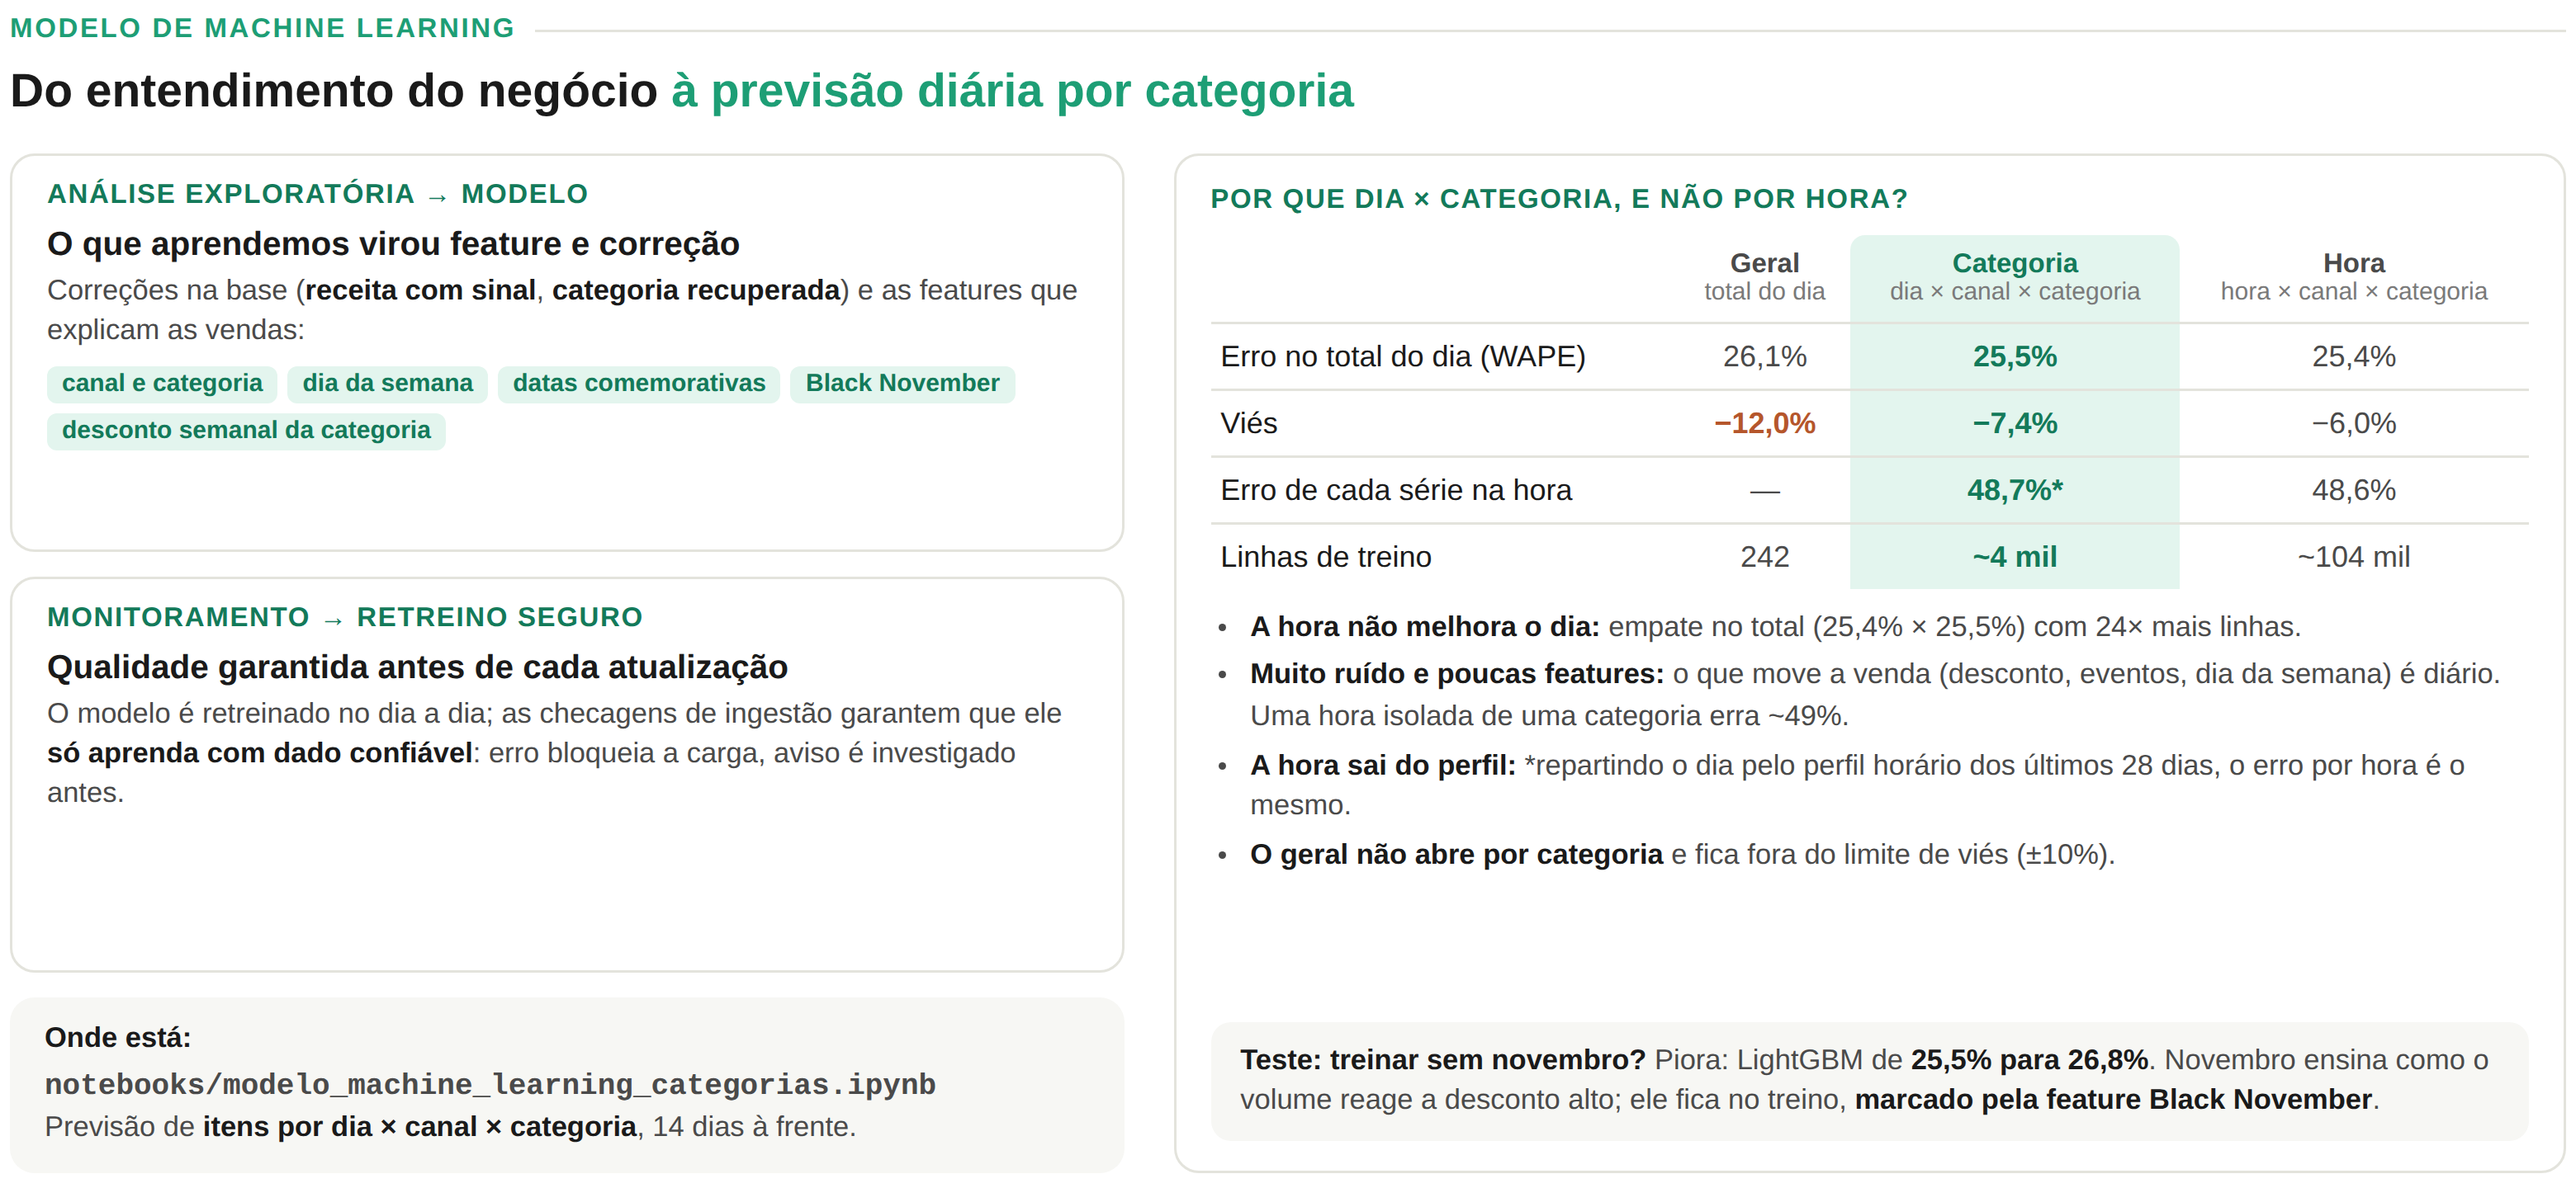
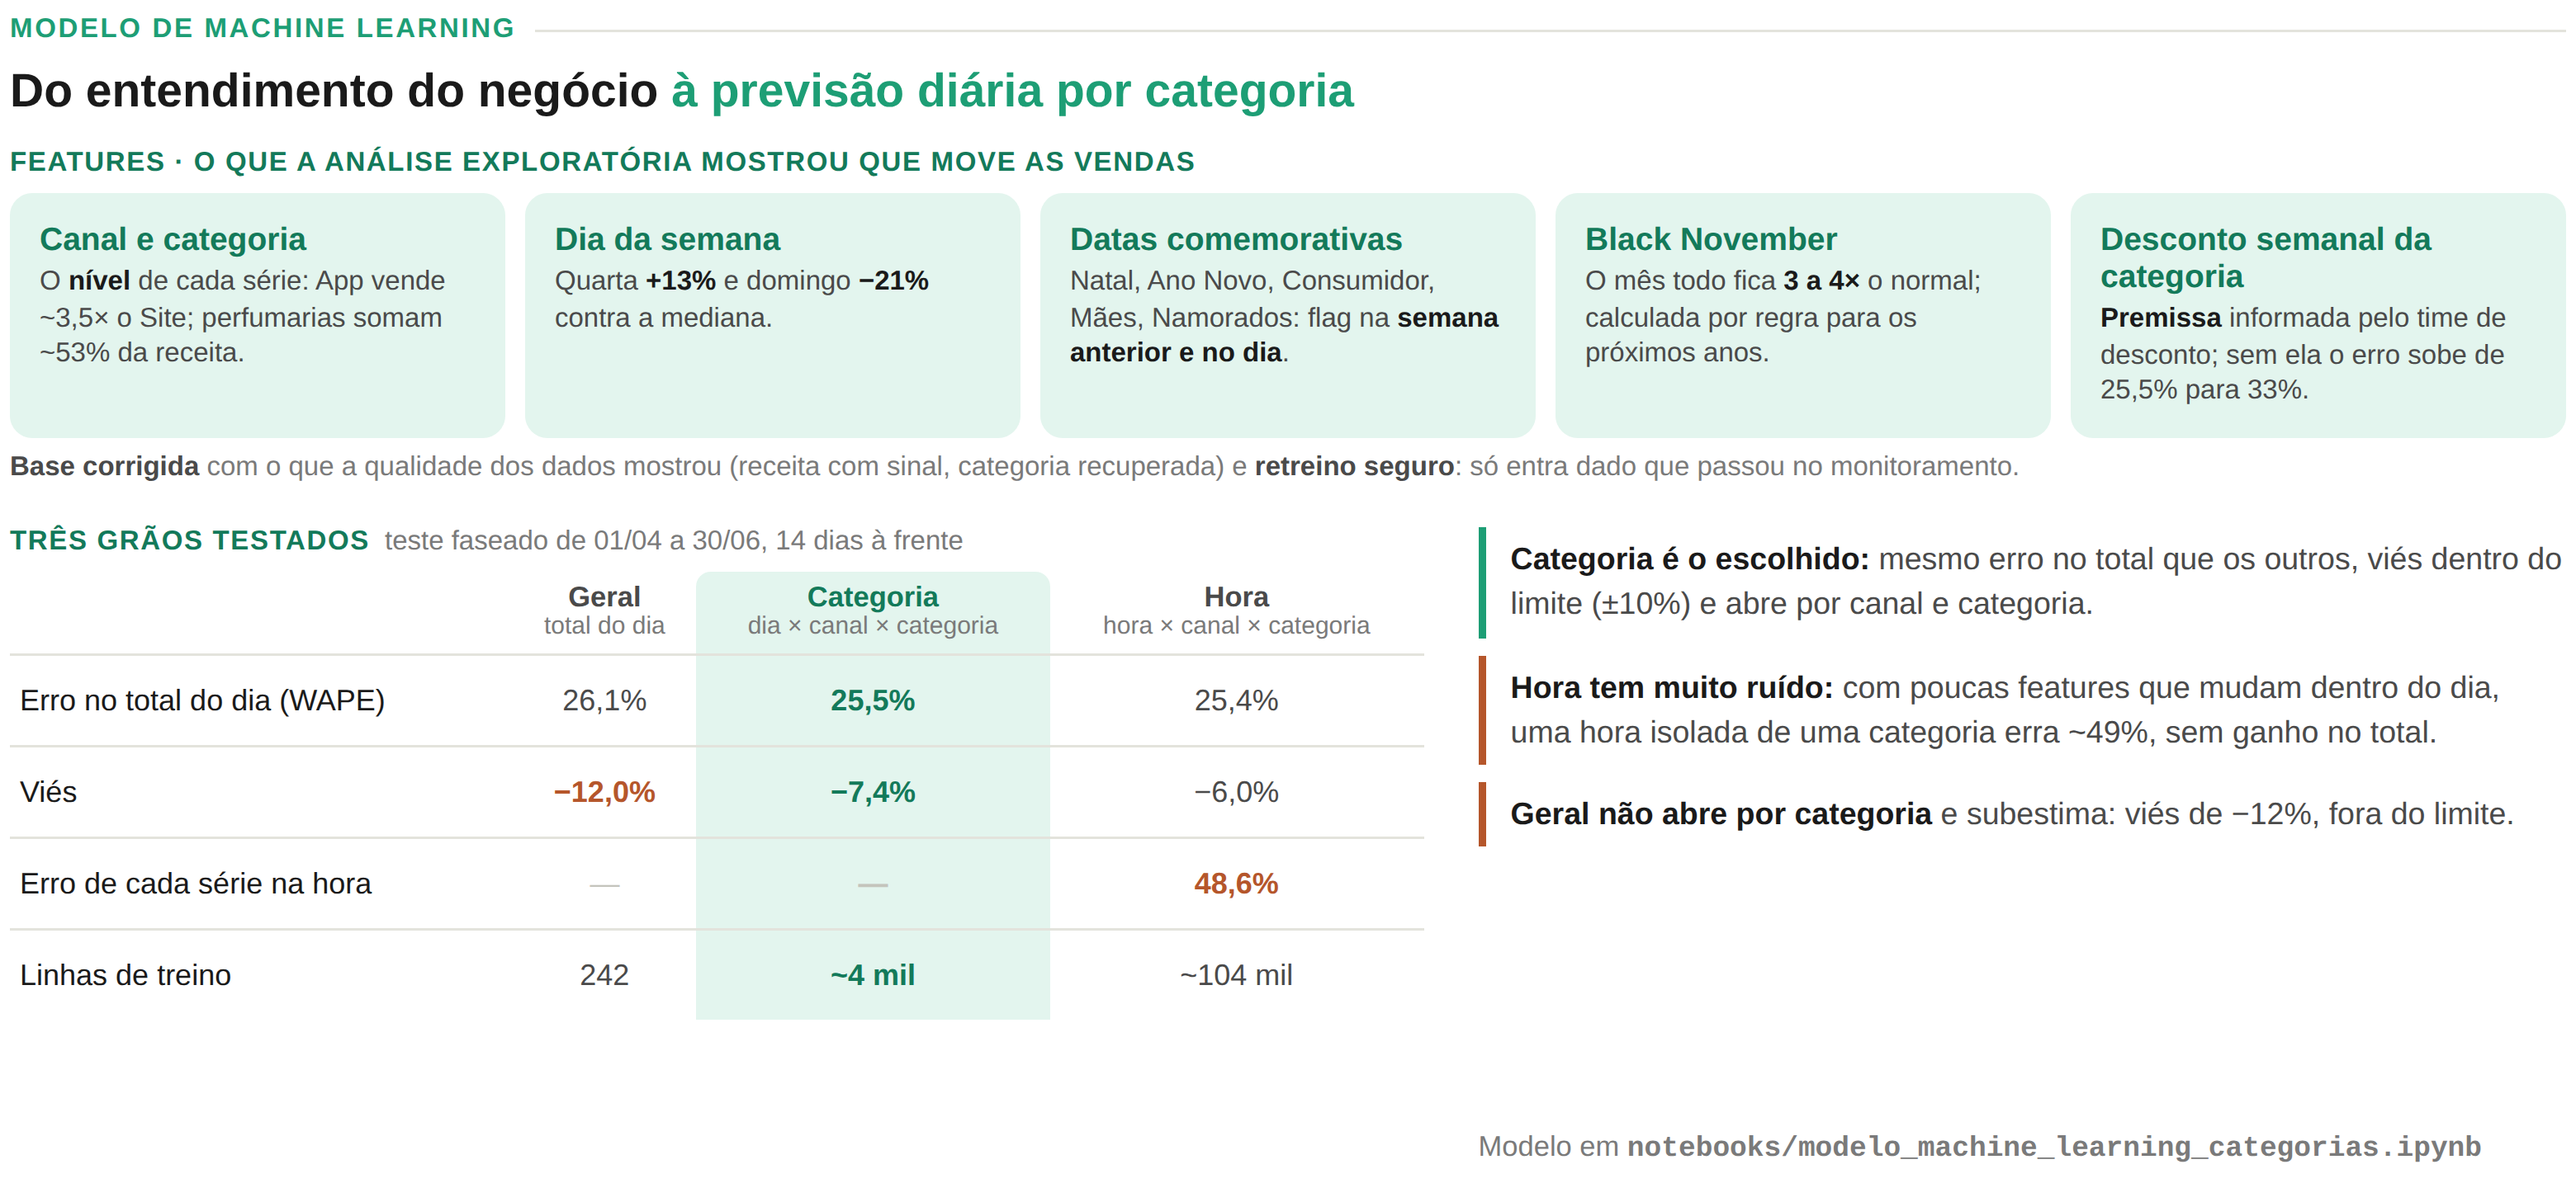
Widget do modelo: faixa de features e comparação dos três grãos
Claude-Session: https://claude.ai/code/session_01NUJZKTcM8cs9QBTcUeuacF

diff --git a/apresentacao/widgets/12_modelo_intro.html b/apresentacao/widgets/12_modelo_intro.html
@@ -12,74 +12,68 @@
   .rotulo { font-size: 11px; font-weight: 700; letter-spacing: .08em; text-transform: uppercase; color: var(--verde);
             margin-bottom: 8px; display: flex; align-items: center; gap: 8px; }
   .rotulo::after { content: ""; flex: 1; height: 1px; background: var(--linha); }
-  h3 { font-size: 19px; line-height: 1.25; margin-bottom: 12px; }
+  h3 { font-size: 19px; line-height: 1.25; margin-bottom: 10px; }
   h3 span { color: var(--verde); }
-  .colunas { display: grid; grid-template-columns: 1fr 1.25fr; gap: 20px; flex: 1; }
   .tit { font-size: 11px; font-weight: 700; color: var(--verde-escuro); text-transform: uppercase; letter-spacing: .05em; margin-bottom: 6px; }
-  code { font-family: "Courier New", monospace; font-weight: 700; font-size: 12px; }
+  .tit small { font-weight: 400; text-transform: none; letter-spacing: 0; color: var(--tinta-3); font-size: 11px; margin-left: 6px; }
+  code { font-family: "Courier New", monospace; font-weight: 700; font-size: 11.5px; }
 
-  .pilares { display: flex; flex-direction: column; gap: 10px; }
-  .pilar { flex: 1; }
-  .pilar { border: 1px solid var(--linha); border-radius: 10px; padding: 10px 14px; }
-  .pilar h4 { font-size: 13.5px; margin-bottom: 4px; }
-  .pilar p { font-size: 11.5px; color: var(--tinta-2); line-height: 1.4; }
-  .pilar p b { color: var(--tinta); }
-  .tags { display: flex; flex-wrap: wrap; gap: 4px; margin-top: 6px; }
-  .tag { font-size: 10px; font-weight: 700; color: var(--verde-escuro); background: var(--verde-claro); border-radius: 4px; padding: 2px 6px; }
-  .arquivo { background: #f7f7f4; border-radius: 10px; padding: 9px 14px; font-size: 11.5px; color: var(--tinta-2); line-height: 1.5; }
-  .arquivo b { color: var(--tinta); }
+  .feats { display: grid; grid-template-columns: repeat(5, 1fr); gap: 8px; }
+  .f { background: var(--verde-claro); border-radius: 9px; padding: 11px 12px; }
+  .f h4 { font-size: 13px; color: var(--verde-escuro); margin-bottom: 3px; }
+  .f p { font-size: 11px; color: var(--tinta-2); line-height: 1.35; }
+  .f p b { color: var(--tinta); }
+  .base { margin-top: 6px; font-size: 11px; color: var(--tinta-3); }
+  .base b { color: var(--tinta-2); }
 
-  .grao { border: 1px solid var(--linha); border-radius: 10px; padding: 12px 14px; display: flex; flex-direction: column; }
-  .comp { width: 100%; border-collapse: collapse; font-size: 12px; margin: 2px 0 8px; }
-  .comp th { font-size: 11px; color: var(--tinta-2); text-align: center; padding: 6px 4px; font-weight: 700; }
+  .baixo { display: grid; grid-template-columns: 1.3fr 1fr; gap: 22px; margin-top: 18px; flex: 1; }
+  .comp { width: 100%; border-collapse: collapse; font-size: 12px; }
+  .comp th { font-size: 11.5px; color: var(--tinta-2); text-align: center; padding: 5px 4px; font-weight: 700; }
   .comp th small { display: block; font-weight: 400; color: var(--tinta-3); font-size: 10px; }
   .comp th.esc { background: var(--verde-claro); color: var(--verde-escuro); border-radius: 6px 6px 0 0; }
-  .comp td { padding: 6px 4px; border-top: 1px solid var(--linha); text-align: center; color: var(--tinta-2); }
+  .comp td { padding: 11px 4px; border-top: 1px solid var(--linha); text-align: center; color: var(--tinta-2); }
   .comp td:first-child { text-align: left; color: var(--tinta); }
   .comp td.esc { background: var(--verde-claro); color: var(--verde-escuro); font-weight: 700; }
   .comp td.ruim { color: var(--laranja); font-weight: 700; }
-  .porque { font-size: 11.5px; color: var(--tinta-2); line-height: 1.45; }
+  .comp td.na { color: #c4c4bc; }
+  .porque { font-size: 12.5px; color: var(--tinta-2); line-height: 1.45; display: flex; flex-direction: column; gap: 7px; }
+  .porque div { border-left: 3px solid var(--verde); padding: 4px 0 4px 10px; }
+  .porque div.r { border-color: var(--laranja); }
   .porque b { color: var(--tinta); }
-  .porque li { margin: 0 0 3px 16px; }
-  .teste { margin-top: auto; background: #f7f7f4; border-radius: 8px; padding: 8px 12px; font-size: 11.5px; color: var(--tinta-2); line-height: 1.4; }
-  .teste b { color: var(--tinta); }
+  .arquivo { margin-top: auto; font-size: 11.5px; color: var(--tinta-3); }
 </style>
 </head>
 <body>
 <div class="widget">
   <div class="rotulo">Modelo de machine learning</div>
   <h3>Do entendimento do negócio <span>à previsão diária por categoria</span></h3>
-  <div class="colunas">
-    <div class="pilares">
-      <div class="pilar">
-        <div class="tit">Análise exploratória → modelo</div>
-        <h4>O que aprendemos virou feature e correção</h4>
-        <p>Correções na base (<b>receita com sinal</b>, <b>categoria recuperada</b>) e as features que explicam as vendas:</p>
-        <div class="tags"><span class="tag">canal e categoria</span><span class="tag">dia da semana</span><span class="tag">datas comemorativas</span><span class="tag">Black November</span><span class="tag">desconto semanal da categoria</span></div>
-      </div>
-      <div class="pilar">
-        <div class="tit">Monitoramento → retreino seguro</div>
-        <h4>Qualidade garantida antes de cada atualização</h4>
-        <p>O modelo é retreinado no dia a dia; as checagens de ingestão garantem que ele <b>só aprenda com dado confiável</b>: erro bloqueia a carga, aviso é investigado antes.</p>
-      </div>
-      <div class="arquivo"><b>Onde está:</b> <code>notebooks/modelo_machine_learning_categorias.ipynb</code><br>Previsão de <b>itens por dia × canal × categoria</b>, 14 dias à frente.</div>
-    </div>
-    <div class="grao">
-      <div class="tit">Por que dia × categoria, e não por hora?</div>
+
+  <div class="tit">Features · o que a análise exploratória mostrou que move as vendas</div>
+  <div class="feats">
+    <div class="f"><h4>Canal e categoria</h4><p>O <b>nível</b> de cada série: App vende ~3,5× o Site; perfumarias somam ~53% da receita.</p></div>
+    <div class="f"><h4>Dia da semana</h4><p>Quarta <b>+13%</b> e domingo <b>−21%</b> contra a mediana.</p></div>
+    <div class="f"><h4>Datas comemorativas</h4><p>Natal, Ano Novo, Consumidor, Mães, Namorados: flag na <b>semana anterior e no dia</b>.</p></div>
+    <div class="f"><h4>Black November</h4><p>O mês todo fica <b>3 a 4×</b> o normal; calculada por regra para os próximos anos.</p></div>
+    <div class="f"><h4>Desconto semanal da categoria</h4><p><b>Premissa</b> informada pelo time de desconto; sem ela o erro sobe de 25,5% para 33%.</p></div>
+  </div>
+  <div class="base"><b>Base corrigida</b> com o que a qualidade dos dados mostrou (receita com sinal, categoria recuperada) e <b>retreino seguro</b>: só entra dado que passou no monitoramento.</div>
+
+  <div class="baixo">
+    <div>
+      <div class="tit">Três grãos testados<small>teste faseado de 01/04 a 30/06, 14 dias à frente</small></div>
       <table class="comp">
         <tr><th></th><th>Geral<small>total do dia</small></th><th class="esc">Categoria<small>dia × canal × categoria</small></th><th>Hora<small>hora × canal × categoria</small></th></tr>
         <tr><td>Erro no total do dia (WAPE)</td><td>26,1%</td><td class="esc">25,5%</td><td>25,4%</td></tr>
         <tr><td>Viés</td><td class="ruim">−12,0%</td><td class="esc">−7,4%</td><td>−6,0%</td></tr>
-        <tr><td>Erro de cada série na hora</td><td>—</td><td class="esc">48,7%*</td><td>48,6%</td></tr>
+        <tr><td>Erro de cada série na hora</td><td class="na">—</td><td class="na esc">—</td><td class="ruim">48,6%</td></tr>
         <tr><td>Linhas de treino</td><td>242</td><td class="esc">~4 mil</td><td>~104 mil</td></tr>
       </table>
-      <ul class="porque">
-        <li><b>A hora não melhora o dia:</b> empate no total (25,4% × 25,5%) com 24× mais linhas.</li>
-        <li><b>Muito ruído e poucas features:</b> o que move a venda (desconto, eventos, dia da semana) é diário. Uma hora isolada de uma categoria erra ~49%.</li>
-        <li><b>A hora sai do perfil:</b> *repartindo o dia pelo perfil horário dos últimos 28 dias, o erro por hora é o mesmo.</li>
-        <li><b>O geral não abre por categoria</b> e fica fora do limite de viés (±10%).</li>
-      </ul>
-      <div class="teste"><b>Teste: treinar sem novembro?</b> Piora: LightGBM de <b>25,5% para 26,8%</b>. Novembro ensina como o volume reage a desconto alto; ele fica no treino, <b>marcado pela feature Black November</b>.</div>
+    </div>
+    <div class="porque">
+      <div><b>Categoria é o escolhido:</b> mesmo erro no total que os outros, viés dentro do limite (±10%) e abre por canal e categoria.</div>
+      <div class="r"><b>Hora tem muito ruído:</b> com poucas features que mudam dentro do dia, uma hora isolada de uma categoria erra ~49%, sem ganho no total.</div>
+      <div class="r"><b>Geral não abre por categoria</b> e subestima: viés de −12%, fora do limite.</div>
+      <div class="arquivo" style="border:none;padding:0">Modelo em <code>notebooks/modelo_machine_learning_categorias.ipynb</code></div>
     </div>
   </div>
 </div>
